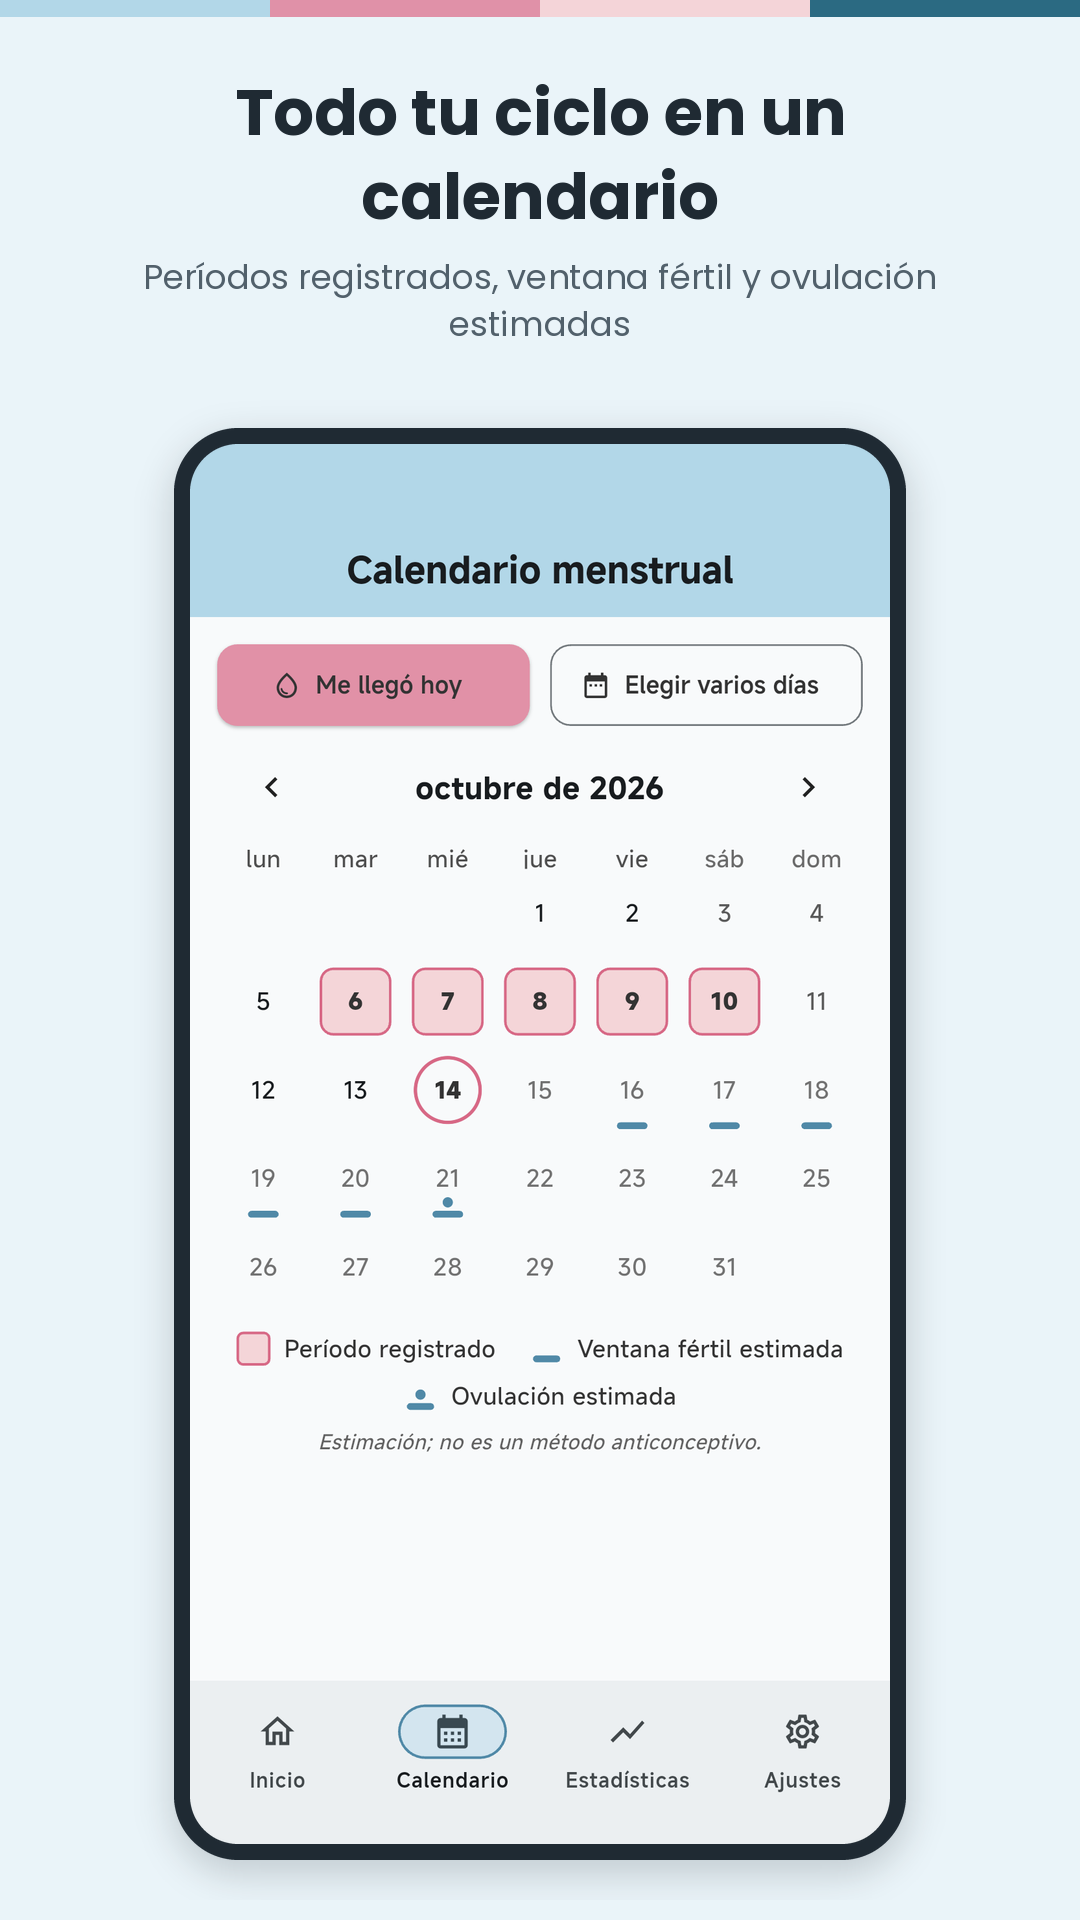
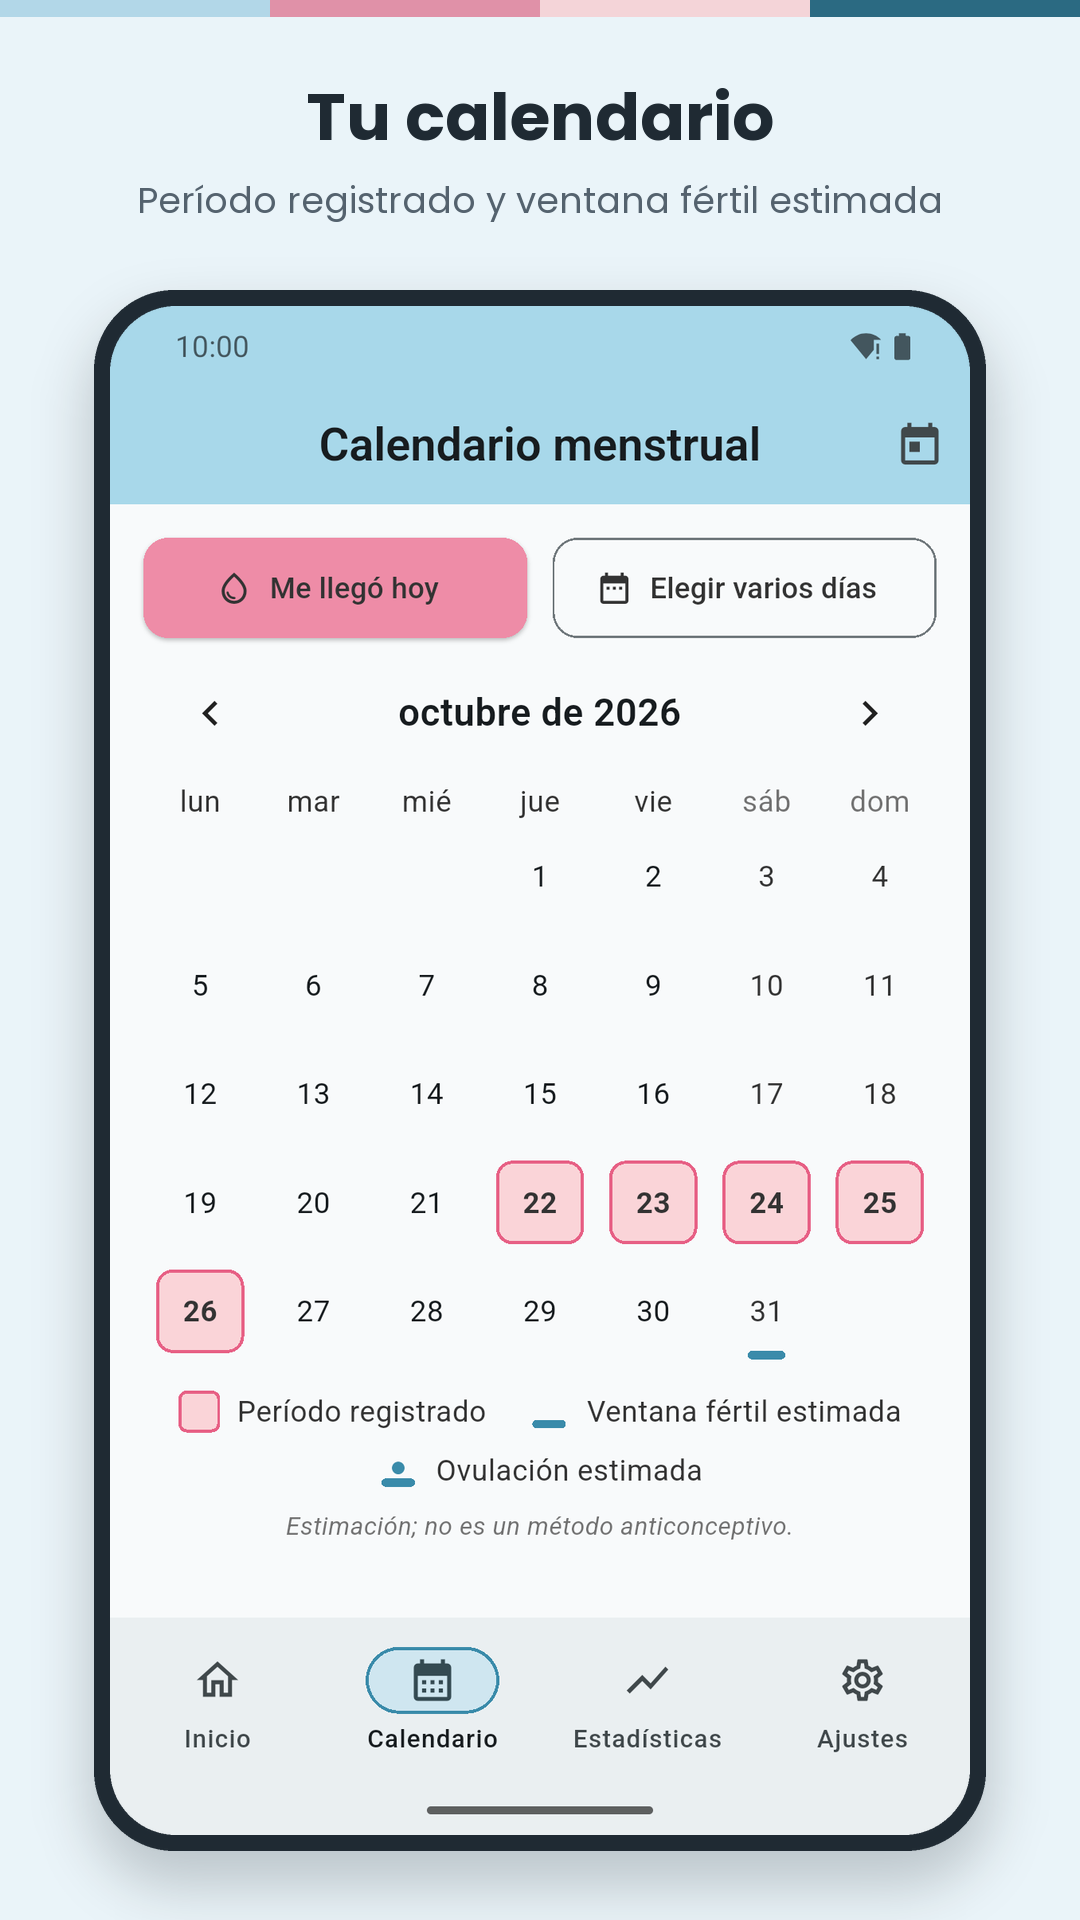
docs: capturas nuevas de la 1.3.0 con datos inventados

diff --git a/README.md b/README.md
@@ -10,9 +10,9 @@ Aplicación Android para registrar el ciclo menstrual y estimar sus fases. **Loc
 
 ## Capturas
 
-<table><tr><td align="center"><img src="docs/screenshots/inicio.png" width="170" alt="Inicio: fase actual y próximo período"></td><td align="center"><img src="docs/screenshots/calendario.png" width="170" alt="Calendario con la ventana fértil estimada"></td><td align="center"><img src="docs/screenshots/registrar-dia.png" width="170" alt="Registrar día"></td><td align="center"><img src="docs/screenshots/estadisticas.png" width="170" alt="Estadísticas"></td><td align="center"><img src="docs/screenshots/ajustes.png" width="170" alt="Ajustes y datos"></td></tr></table>
+<table><tr><td align="center"><img src="docs/screenshots/inicio.png" width="170" alt="Inicio: fase actual y próximo período"></td><td align="center"><img src="docs/screenshots/calendario.png" width="170" alt="Calendario con la ventana fértil estimada"></td><td align="center"><img src="docs/screenshots/registrar-dia.png" width="170" alt="Registrar día"></td><td align="center"><img src="docs/screenshots/estadisticas.png" width="170" alt="Estadísticas"></td><td align="center"><img src="docs/screenshots/ajustes.png" width="170" alt="Ajustes y datos"></td><td align="center"><img src="docs/screenshots/embarazo.png" width="170" alt="Modo embarazo"></td><td align="center"><img src="docs/screenshots/tema-oscuro.png" width="170" alt="Tema oscuro"></td></tr></table>
 
-Orden: Inicio, Calendario, Registrar día, Estadísticas y Ajustes. *Las capturas son de versiones anteriores (la de Ajustes, de la 1.1.0, antes del respaldo en Drive); no muestran las novedades de la próxima actualización.*
+Orden: Inicio, Calendario, Registrar día, Estadísticas, Ajustes, Modo embarazo y Tema oscuro. *Capturas de la 1.3.0 con datos inventados; esas novedades llegan en la próxima actualización de Google Play.*
 
 ## Qué hace
 

diff --git a/README.en.md b/README.en.md
@@ -10,9 +10,9 @@ An Android app to log your menstrual cycle and estimate its phases. **Local-firs
 
 ## Screenshots
 
-<table><tr><td align="center"><img src="docs/screenshots/inicio.png" width="170" alt="Home: current phase and next period"></td><td align="center"><img src="docs/screenshots/calendario.png" width="170" alt="Calendar with the estimated fertile window"></td><td align="center"><img src="docs/screenshots/registrar-dia.png" width="170" alt="Log a day"></td><td align="center"><img src="docs/screenshots/estadisticas.png" width="170" alt="Statistics"></td><td align="center"><img src="docs/screenshots/ajustes.png" width="170" alt="Settings and data"></td></tr></table>
+<table><tr><td align="center"><img src="docs/screenshots/inicio.png" width="170" alt="Home: current phase and next period"></td><td align="center"><img src="docs/screenshots/calendario.png" width="170" alt="Calendar with the estimated fertile window"></td><td align="center"><img src="docs/screenshots/registrar-dia.png" width="170" alt="Log a day"></td><td align="center"><img src="docs/screenshots/estadisticas.png" width="170" alt="Statistics"></td><td align="center"><img src="docs/screenshots/ajustes.png" width="170" alt="Settings and data"></td><td align="center"><img src="docs/screenshots/embarazo.png" width="170" alt="Pregnancy mode"></td><td align="center"><img src="docs/screenshots/tema-oscuro.png" width="170" alt="Dark theme"></td></tr></table>
 
-Order: Home, Calendar, Log a day, Statistics and Settings. *The screenshots are from earlier versions (Settings is from 1.1.0, before the Drive backup) and don't show the features in the next update.* (They show the Spanish UI.)
+Order: Home, Calendar, Log a day, Statistics, Settings, Pregnancy mode and Dark theme. *1.3.0 screenshots with invented data; those features arrive in the next Google Play update.* (They show the Spanish UI.)
 
 ## What it does
 

diff --git a/docs/PLAY_FICHA_1.3.0.md b/docs/PLAY_FICHA_1.3.0.md
@@ -109,5 +109,4 @@ la ficha refleje que no hay servidor. Referencia: Play Console Help, artículo 1
 - El `.aab` está firmado con la clave de subida correcta (SHA-256 `A9:32:D2:18:…:A8:2C`, el
   mismo de las versiones anteriores).
 - Versión 1.3.0 (build 8). Play ya tiene 1.2.0 (build 7) en prueba interna.
-- Las capturas de la ficha son de la versión anterior: conviene tomar nuevas del tema
-  oscuro, el modo embarazo, el widget y las estadísticas.
+- Capturas nuevas (datos inventados) en `docs/screenshots/play/` (sin marco) y `docs/screenshots/` (con marco).
